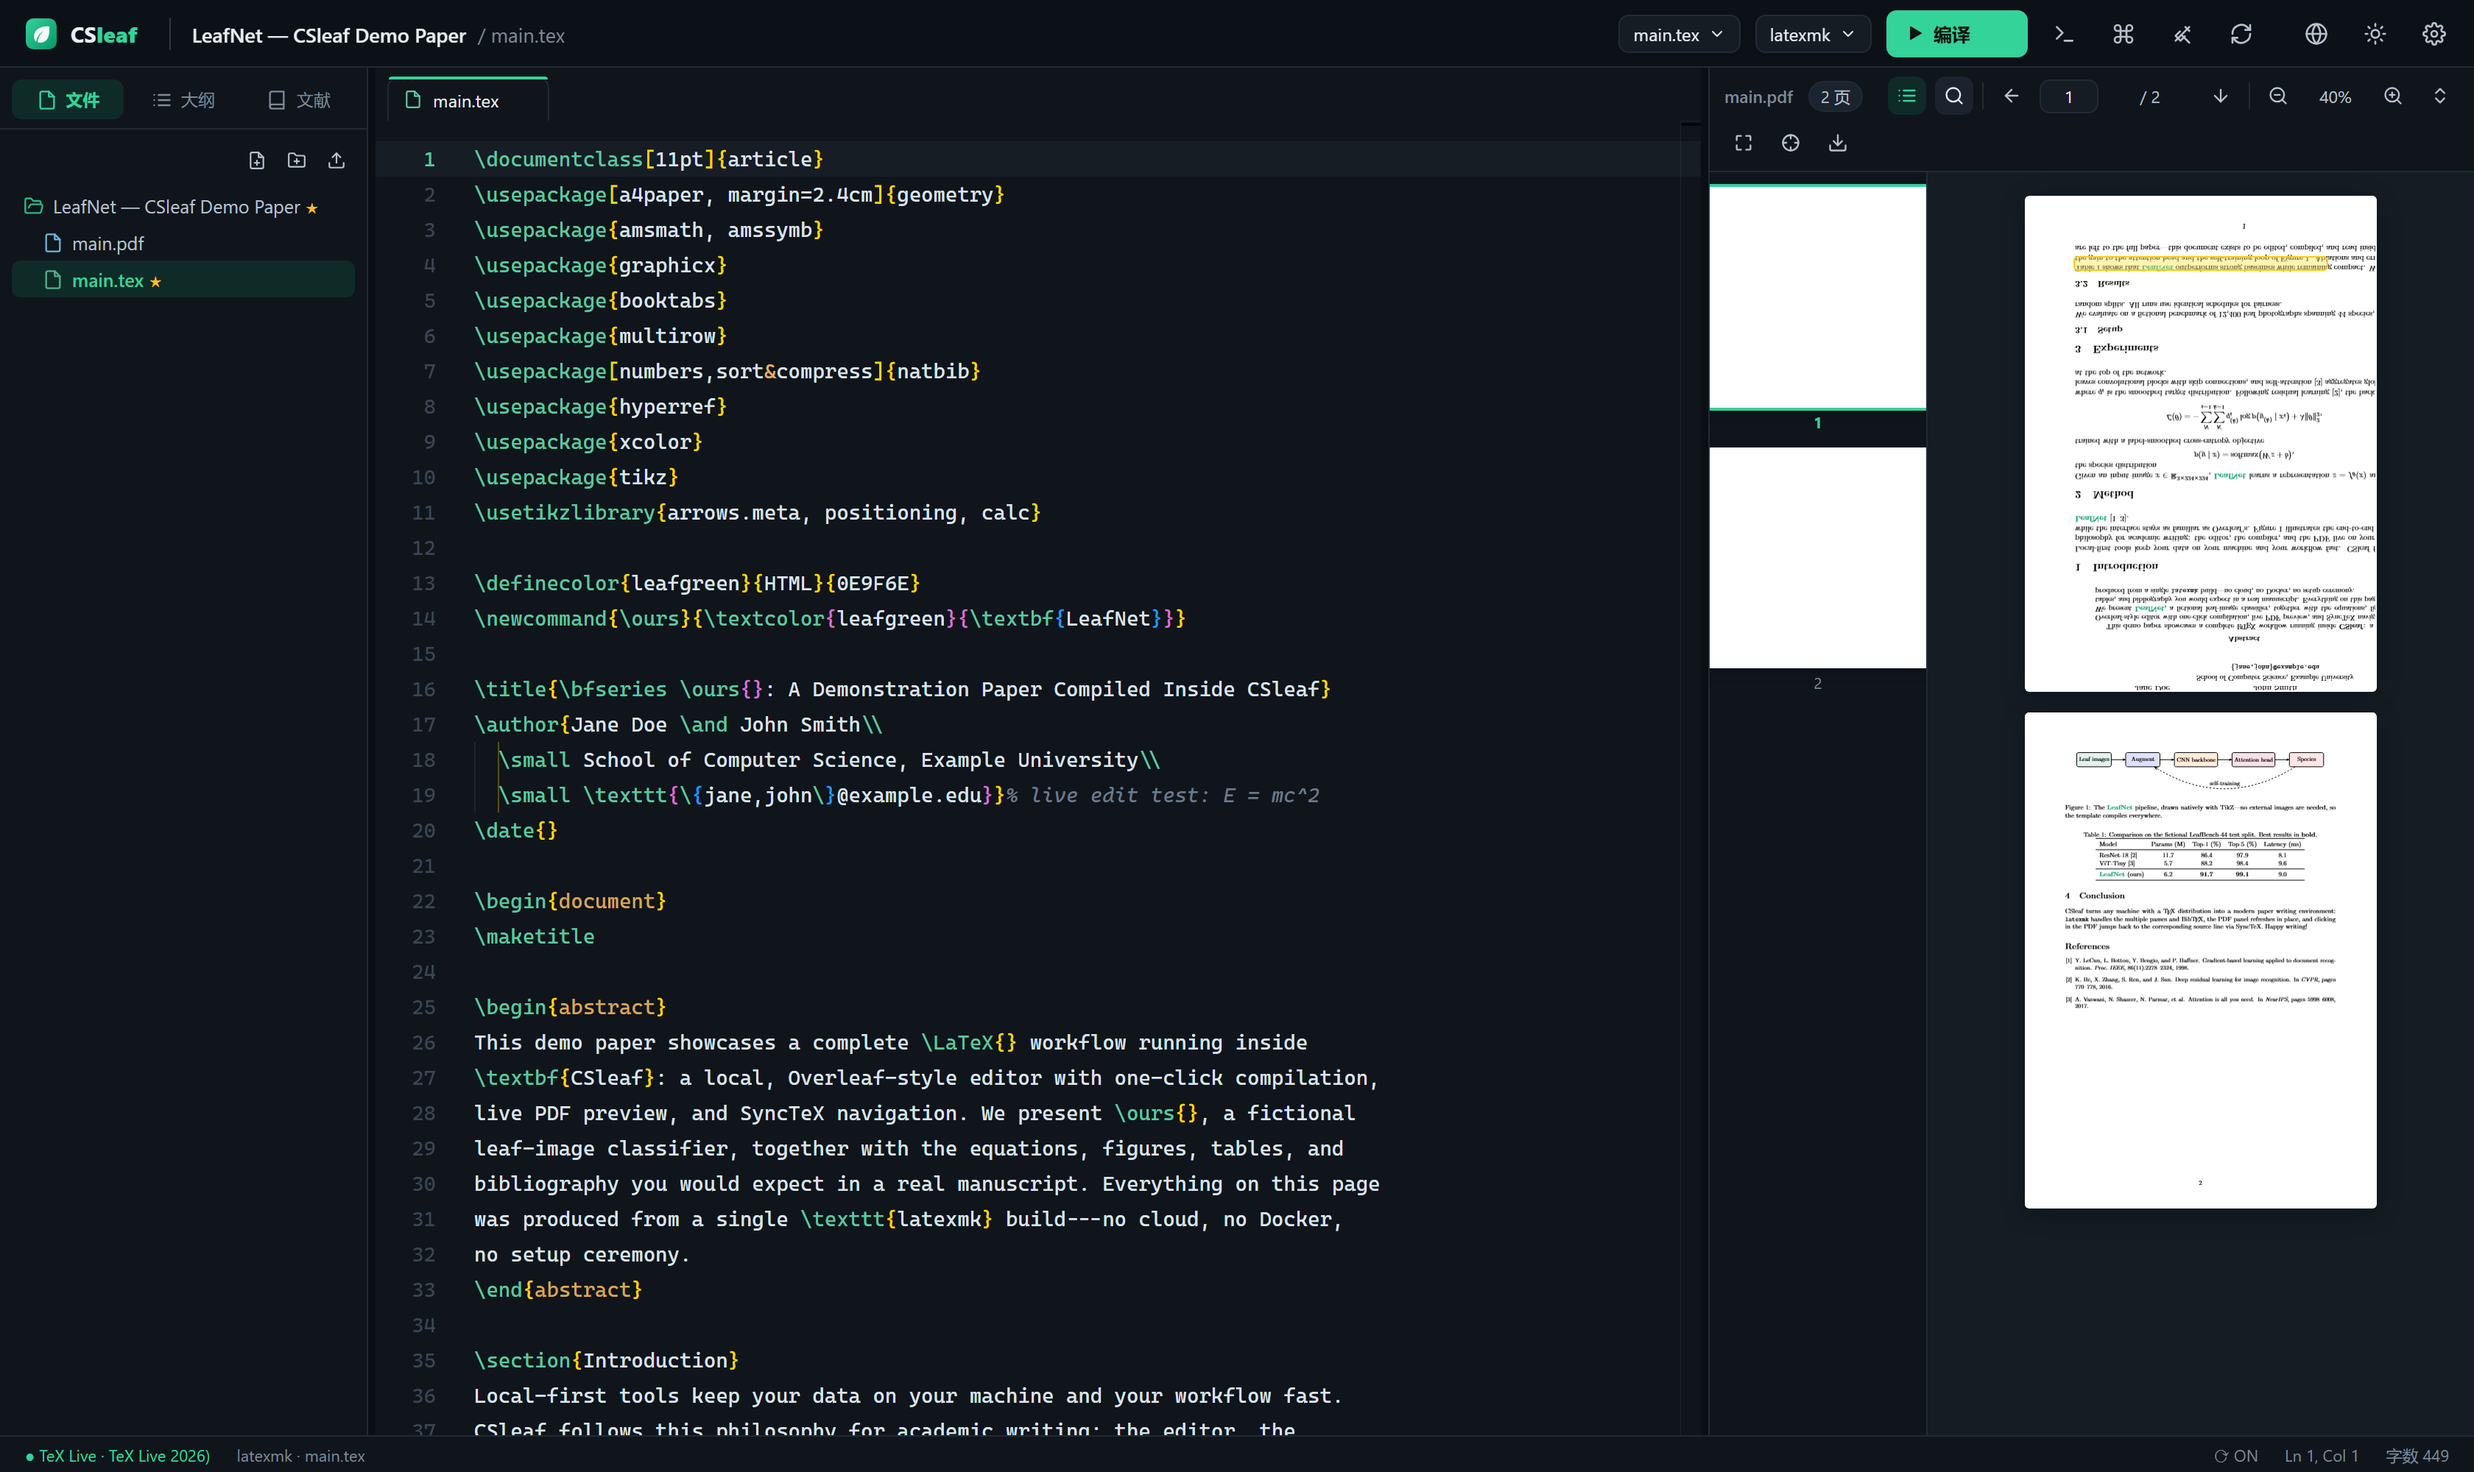
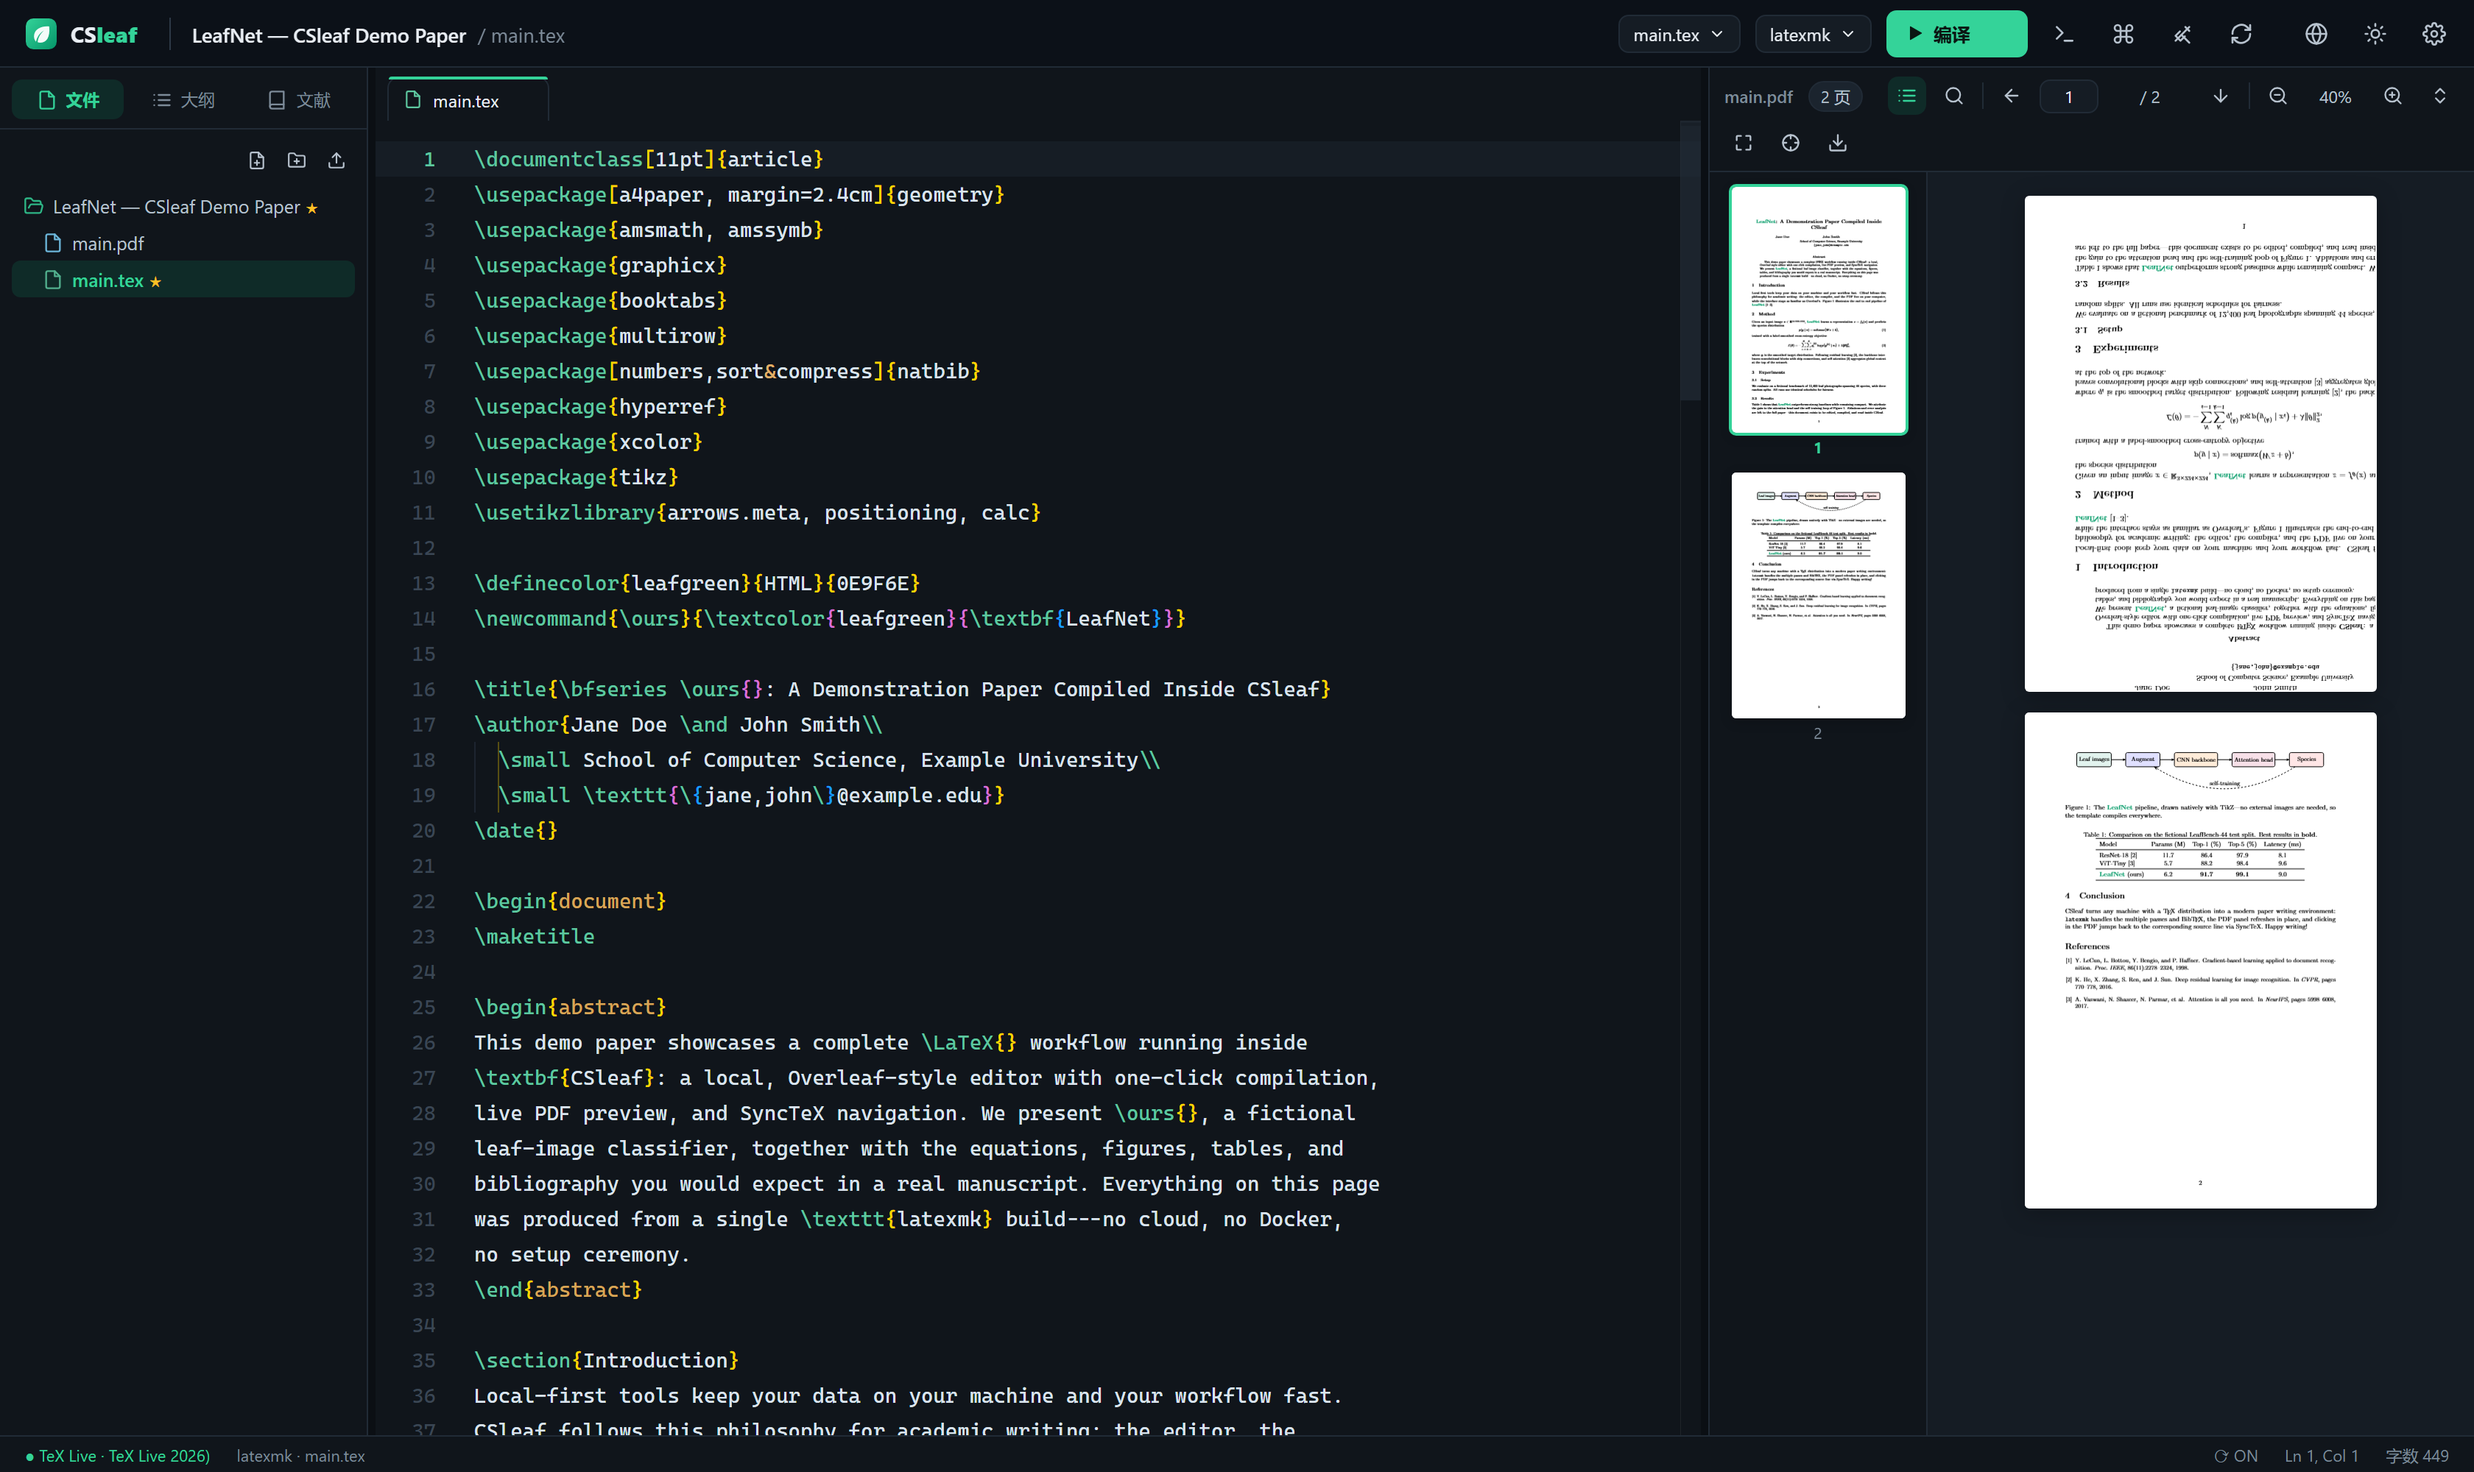
fix: PDF thumbnails rendered blank (canvas default width guard bug)

Changed region(s): [[0.6875, 0.124, 0.7812, 0.496], [0.8438, 0.155, 0.9375, 0.186], [0.4062, 0.527, 0.4688, 0.558]]

diff --git a/web/src/components/PdfViewer.jsx b/web/src/components/PdfViewer.jsx
@@ -329,36 +329,42 @@ function EmptyState({ t, running, result }) {
 /** Single thumbnail (lazy-rendered). */
 function PdfThumb({ doc, pageNo, active, onClick }) {
   const ref = React.useRef(null);
-  const [done, setDone] = React.useState(false);
+  const started = React.useRef(false);
 
   React.useEffect(() => {
+    let cancelled = false;
     const obs = new IntersectionObserver((entries) => {
-      if (entries.some(e => e.isIntersecting)) render();
-    }, { root: ref.current?.closest('.pdf-thumbs'), rootMargin: '400px 0px' });
+      if (entries.some(e => e.isIntersecting) && !started.current) {
+        started.current = true;
+        render(cancelled);
+      }
+    }, { rootMargin: '300px 0px' });
     obs.observe(ref.current);
-    return () => obs.disconnect();
+    return () => { cancelled = true; obs.disconnect(); };
   }, []);
 
-  async function render() {
+  async function render(cancelled) {
     try {
       const p = await doc.getPage(pageNo);
-      const canvas = ref.current.querySelector('canvas');
-      if (!canvas || canvas.width > 1) return;
+      if (cancelled) return;
+      const canvas = ref.current?.querySelector('canvas');
+      if (!canvas) return;
       const base = p.getViewport({ scale: 1 });
       const s = 118 / base.width;
       const vp = p.getViewport({ scale: s * renderMultiplier() });
       const css = p.getViewport({ scale: s });
-      canvas.width = vp.width; canvas.height = vp.height;
-      canvas.style.width = css.width + 'px'; canvas.style.height = css.height + 'px';
+      canvas.width = Math.floor(vp.width);
+      canvas.height = Math.floor(vp.height);
+      canvas.style.width = css.width + 'px';
+      canvas.style.height = css.height + 'px';
       await p.render({ canvasContext: canvas.getContext('2d'), viewport: vp }).promise;
-      setDone(true);
     } catch {}
   }
 
   return (
     <div ref={ref} className={`pdf-thumb ${active ? 'active' : ''}`} onClick={onClick}>
       <div className="pdf-thumb-page" style={{ minHeight: 150 }}>
-        <canvas />
+        <canvas width="1" height="1" />
       </div>
       <span className="pdf-thumb-num">{pageNo}</span>
     </div>
